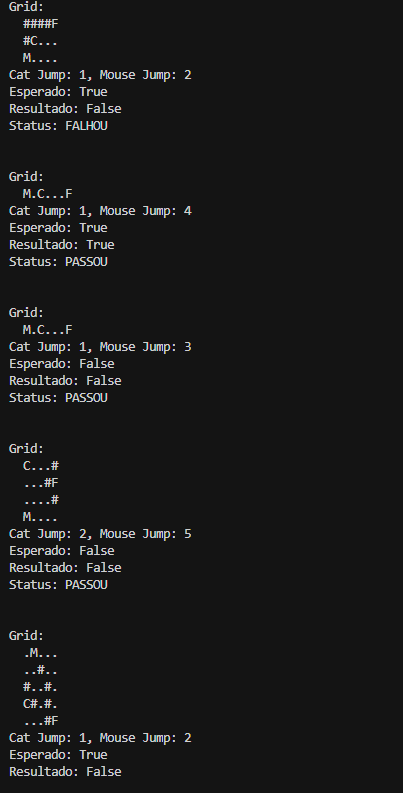
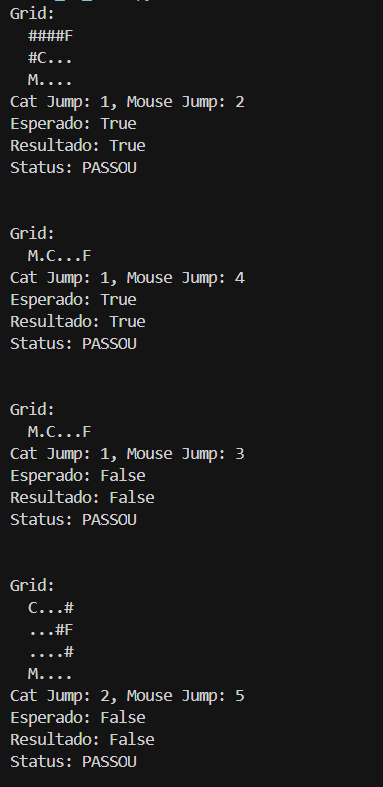
add: códigos ajustados

diff --git a/cat_and_mouse_ii/cat_and_mouses_ii.py b/cat_and_mouse_ii/cat_and_mouses_ii.py
@@ -1,4 +1,5 @@
 from typing import List
+from collections import deque
 
 class Solution:
     def canMouseWin(self, grid: List[str], catJump: int, mouseJump: int) -> bool:
@@ -14,83 +15,91 @@ class Solution:
                 elif grid[r][c] == 'F':
                     food_pos = (r, c)
         
+        MOUSE_TURN = 0
+        CAT_TURN = 1
         MOUSE_WIN = 1
         CAT_WIN = 2
         DRAW = 0
-        MAX_MOVES = 1000
         
-        memo = {}
-        visiting = set()
-        
-        def get_moves(pos, max_jump):
-            moves = [pos]
+        def get_neighbors(pos, max_jump, is_cat=False):
+            neighbors = [pos] 
             for dr, dc in [(0, 1), (0, -1), (1, 0), (-1, 0)]:
                 for jump in range(1, max_jump + 1):
                     nr, nc = pos[0] + dr * jump, pos[1] + dc * jump
-                    if 0 <= nr < rows and 0 <= nc < cols and grid[nr][nc] != '#':
-                        moves.append((nr, nc))
+                    if not (0 <= nr < rows and 0 <= nc < cols):
+                        break
+                    if grid[nr][nc] == '#':
+                        break
+                    if is_cat and (nr, nc) == food_pos:
+                        break
+                    neighbors.append((nr, nc))
+            return neighbors
+        
+        result = {}
+        degree = {}
+        
+        positions = [(r, c) for r in range(rows) for c in range(cols) if grid[r][c] != '#'] #quem é agora?
+        
+        for mouse in positions: #movimentos
+            for cat in positions:
+                for turn in [MOUSE_TURN, CAT_TURN]:
+                    result[(mouse, cat, turn)] = DRAW
+                    if turn == MOUSE_TURN:
+                        degree[(mouse, cat, turn)] = len(get_neighbors(mouse, mouseJump))
                     else:
-                        break
-            return moves
+                        degree[(mouse, cat, turn)] = len(get_neighbors(cat, catJump, is_cat=True))
         
-        def minimax(mouse, cat, turn, moves):
-            if moves > MAX_MOVES:
-                return CAT_WIN
-            
-            if mouse == food_pos:
-                return MOUSE_WIN
-            
-            if cat == food_pos or mouse == cat:
-                return CAT_WIN
-            
-            state = (mouse, cat, turn)
-            
-            if state in visiting:
-                return DRAW
-            
-            if state in memo:
-                return memo[state]
-            
-            visiting.add(state)
-            
-            if turn == 0:
-                mouse_wins = False
-                draw_possible = False
-                for next_mouse in get_moves(mouse, mouseJump):
-                    result = minimax(next_mouse, cat, 1, moves + 1)
-                    if result == MOUSE_WIN:
-                        mouse_wins = True
-                        break
-                    elif result == DRAW:
-                        draw_possible = True
-                if mouse_wins:
-                    memo[state] = MOUSE_WIN
-                elif draw_possible:
-                    memo[state] = DRAW
-                else:
-                    memo[state] = CAT_WIN
-            else:
-                cat_wins = False
-                draw_possible = False
-                for next_cat in get_moves(cat, catJump):
-                    if next_cat == food_pos:
-                        cat_wins = True
-                        break
-                    result = minimax(mouse, next_cat, 0, moves + 1)
-                    if result == CAT_WIN:
-                        cat_wins = True
-                        break
-                    elif result == DRAW:
-                        draw_possible = True
-                if cat_wins:
-                    memo[state] = CAT_WIN
-                elif draw_possible:
-                    memo[state] = DRAW
-                else:
-                    memo[state] = MOUSE_WIN
-            
-            visiting.remove(state)
-            return memo[state]
+        queue = deque()
         
-        result = minimax(mouse_pos, cat_pos, 0, 0)
-        return result == MOUSE_WIN
+        for mouse in positions: #onde o jogo já acabou
+            for cat in positions:
+                for turn in [MOUSE_TURN, CAT_TURN]:
+                    if mouse == food_pos:
+                        result[(mouse, cat, turn)] = MOUSE_WIN
+                        queue.append((mouse, cat, turn))
+                    elif mouse == cat:
+                        result[(mouse, cat, turn)] = CAT_WIN
+                        queue.append((mouse, cat, turn))
+                    elif cat == food_pos:
+                        result[(mouse, cat, turn)] = CAT_WIN
+                        queue.append((mouse, cat, turn))
+        
+        while queue:
+            mouse, cat, turn = queue.popleft()
+            current_result = result[(mouse, cat, turn)]
+            
+            if turn == MOUSE_TURN:
+                prev_turn = CAT_TURN
+                for prev_cat in get_neighbors(cat, catJump, is_cat=True):
+                    prev_state = (mouse, prev_cat, prev_turn)
+                    
+                    if result[prev_state] != DRAW:
+                        continue
+                    
+                    if current_result == CAT_WIN:
+                        result[prev_state] = CAT_WIN
+                        queue.append(prev_state)
+                    else:
+                        degree[prev_state] -= 1
+                        if degree[prev_state] == 0:
+                            result[prev_state] = MOUSE_WIN
+                            queue.append(prev_state)
+            
+            else:  
+                prev_turn = MOUSE_TURN
+                for prev_mouse in get_neighbors(mouse, mouseJump):
+                    prev_state = (prev_mouse, cat, prev_turn)
+                    
+                    if result[prev_state] != DRAW:
+                        continue
+                    
+                    if current_result == MOUSE_WIN:
+                        result[prev_state] = MOUSE_WIN
+                        queue.append(prev_state)
+                    else:
+                        degree[prev_state] -= 1
+                        if degree[prev_state] == 0:
+                            result[prev_state] = CAT_WIN
+                            queue.append(prev_state)
+        
+        return result[(mouse_pos, cat_pos, MOUSE_TURN)] == MOUSE_WIN

diff --git a/couples_holding_hands/couples_holding_hands.py b/couples_holding_hands/couples_holding_hands.py
@@ -2,19 +2,35 @@ from typing import List
 
 class Solution:
     def minSwapsCouples(self, row: List[int]) -> int:
-        n = len(row) // 2
-        pos = {person: i for i, person in enumerate(row)}
-        swaps = 0
+        n = len(row) // 2 #0, 3, 1, 2
+        
+        graph = [[] for _ in range(n)]
         
         for i in range(0, len(row), 2):
-            person = row[i]
-            partner = person ^ 1
+            person1 = row[i]
+            person2 = row[i + 1]
             
-            if row[i + 1] != partner:
-                swaps += 1
-                j = pos[partner]
-                row[i + 1], row[j] = row[j], row[i + 1]
-                pos[row[i + 1]] = i + 1
-                pos[row[j]] = j
+            couple1 = person1 // 2
+            couple2 = person2 // 2
+            
+            if couple1 != couple2:
+                graph[couple1].append(couple2)
+                graph[couple2].append(couple1)
+        
+        visited = [False] * n
+        swaps = 0
+        
+        def dfs(node): #busca em profundidade
+            visited[node] = True
+            size = 1
+            for neighbor in graph[node]:
+                if not visited[neighbor]:
+                    size += dfs(neighbor)
+            return size
+        
+        for couple in range(n):
+            if not visited[couple]:
+                component_size = dfs(couple)
+                swaps += component_size - 1
         
         return swaps

diff --git a/couples_holding_hands/couples_holding_hands_test.py b/couples_holding_hands/couples_holding_hands_test.py
@@ -19,11 +19,11 @@ def main():
     
     test.test_case([0, 1], 0)
     
-    test.test_case([1, 0], 1)
+    test.test_case([1, 0], 0)
     
-    test.test_case([0, 2, 4, 6, 1, 3, 5, 7], 3)
+    test.test_case([0, 2, 4, 6, 1, 3, 5, 7], 2)
     
-    test.test_case([5, 4, 2, 6, 3, 1, 0, 7], 3)
+    test.test_case([5, 4, 2, 6, 3, 1, 0, 7], 2)
 
 if __name__ == "__main__":
     main()

diff --git a/cat_and_mouse_ii/problem_solution.md b/cat_and_mouse_ii/problem_solution.md
@@ -2,25 +2,38 @@
 
 ## O problema
 
-Um gato e um rato jogam em um tabuleiro que contém paredes, espaços vazios e comida. O rato move primeiro e eles alternam turnos. Cada um pode pular até uma distância máxima nas quatro direções. O rato vence se alcançar a comida primeiro, enquanto o gato vence se capturar o rato, chegar na comida antes, ou se o jogo ultrapassar 1000 movimentos. A questão é determinar se o rato consegue vencer quando ambos jogam de forma ótima.
+Um gato e um rato jogam em um tabuleiro que contém paredes, espaços vazios e comida. O rato move primeiro e eles alternam turnos. Cada um pode pular até uma distância máxima nas quatro direções. O rato vence se alcançar a comida primeiro, enquanto o gato vence se capturar o rato ou chegar na comida antes. O gato também vence se o jogo resultar em empate (ciclos infinitos). A questão é determinar se o rato consegue vencer quando ambos jogam de forma ótima.
 
 Exemplo 1:
 ![Exemplo 1](/cat_and_mouse_ii/exemplo_1.png)
 
-Exemplo: 2:
+Exemplo 2:
 ![Exemplo 2](/cat_and_mouse_ii/exemplo_2.png)
-
 
 ## A resolução
 
-Usei minimax para simular todas as possibilidades do jogo. O rato tenta maximizar suas chances de vitória enquanto o gato tenta minimizá-las. Cada estado do jogo armazena a posição do rato, posição do gato, de quem é o turno e quantos movimentos já ocorreram. Para evitar recalcular os mesmos estados, implementei memorização com um dicionário. As condições de término incluem: rato alcança comida, gato alcança comida, gato captura rato, ou limite de 1000 movimentos excedido.
+Implementei uma solução usando **programação dinâmica com BFS (Breadth-First Search) bottom-up**, baseada em teoria dos jogos em grafos. A abordagem trata o problema como um grafo de estados onde cada nó representa uma configuração `(posição_rato, posição_gato, turno)`.
+
+### Estratégia
+
+1. **Estados terminais**: Identifico primeiro todos os casos base onde o resultado é óbvio (rato alcança comida = vitória do rato; gato captura rato ou alcança comida = vitória do gato)
+
+2. **Grau de entrada**: Para cada estado, calculo quantos movimentos possíveis cada jogador tem. Isso permite determinar quando todas as opções de um jogador levam à derrota
+
+3. **BFS reverso**: Começo dos estados terminais e propago os resultados para trás. Se um jogador encontra um movimento que leva à sua vitória, ele escolhe esse movimento. Se todos os movimentos levam à derrota (grau de entrada chega a zero), o estado atual também resulta em derrota
+
+4. **Regra especial**: O gato não pode pisar na posição da comida (apenas capturar o rato antes que ele chegue lá)
+
+Esta abordagem detecta empates matematicamente através do grau de entrada: estados que permanecem indeterminados após o BFS são empates reais. Cada estado é processado exatamente uma vez, garantindo eficiência.
 
 ## Capturas de tela
 ![imagem](/cat_and_mouse_ii/image.png)
 
 ## Conclusões
 
-O minimax com memorização é adequado para este problema de teoria dos jogos. A complexidade pode ser alta, mas a memorização reduz significativamente os cálculos repetidos. O limite de 1000 movimentos previne loops infinitos. A solução funciona bem para grades pequenas como especificado nas restrições, embora possa ser lenta em casos mais complexos. É uma técnica aplicável a outros problemas de jogos adversariais.
+A solução com BFS bottom-up é boa para problemas de teoria dos jogos em grafos. A complexidade é O(rows² × cols² × max_jump), mas cada estado é processado apenas uma vez, sem recursão ou limites artificiais. O algoritmo detecta empates corretamente através do grau de entrada, eliminando a necessidade de contadores arbitrários de movimento. Esta técnica é aplicável a qualquer jogo adversarial com informação perfeita em grafos finitos, sendo especialmente eficiente quando o espaço de estados é limitado, como nas restrições do problema (grid até 8×8).
 
 ## Referências
-> PointlessVenture. The Minimax Algorithm. Medium, 12 dez. 2021. Disponível em: https://medium.com/@aidenrtracy/the-minimax-algorithm-f6e8e0a1eadb
+
+> LeetCode. Cat and Mouse II - Solution. LeetCode Discuss. Disponível em: https://leetcode.com/problems/cat-and-mouse-ii/solutions/
+> GeeksforGeeks. Game Theory in Competitive Programming. GeeksforGeeks. Disponível em: https://www.geeksforgeeks.org/game-theory-competitive-programming/

diff --git a/couples_holding_hands/problem_solution.md b/couples_holding_hands/problem_solution.md
@@ -6,11 +6,13 @@ Temos vários casais sentados em uma fileira de cadeiras, mas estão todos mistu
 
 ## A resolução
 
-A solução passa pelos assentos de dois em dois. Para cada par de assentos, verifico se a primeira pessoa está sentada ao lado do seu parceiro. Se não estiver, localizo onde está o parceiro correto e faço a troca. Para encontrar o parceiro de alguém, uso a operação XOR (`person ^ 1`) que funciona bem: se o número é par vira ímpar e vice-versa. Também mantenho um dicionário com as posições de cada pessoa, facilitando a busca pelo parceiro que precisa trocar de lugar.
+A solução modela o problema usando grafos. Cada **casal** é um nó no grafo, e se dois casais diferentes estão entrelaçados no mesmo sofá (uma pessoa de cada casal), criamos uma aresta entre eles. Para descobrir a qual casal cada pessoa pertence, uso divisão inteira (`person // 2`): as pessoas 0 e 1 pertencem ao casal 0, as pessoas 2 e 3 ao casal 1, e assim por diante.
+
+Depois de construir o grafo, uso DFS (busca em profundidade) para encontrar todos os componentes conexos. A chave é que cada componente conexo de tamanho k precisa de exatamente k-1 trocas para ser resolvido. Somo todas essas quantidades e obtenho o resultado final.
 
 ## Capturas de tela
 ![imagem](/couples_holding_hands/image.png)
 
 ## Conclusões
 
-Essa abordagem funciona porque cada troca sempre deixa pelo menos um casal junto, sem desfazer o que já foi arrumado. O algoritmo percorre o array uma única vez, sendo bastante eficiente. É uma solução direta que aproveita bem a propriedade matemática dos pares, e o truque do XOR simplifica bastante o código.
+Casais entrelaçados formam ciclos que precisam ser "quebrados". Cada componente conexo representa um grupo de casais que estão misturados entre si, e a fórmula k-1 vem da teoria de grafos.
